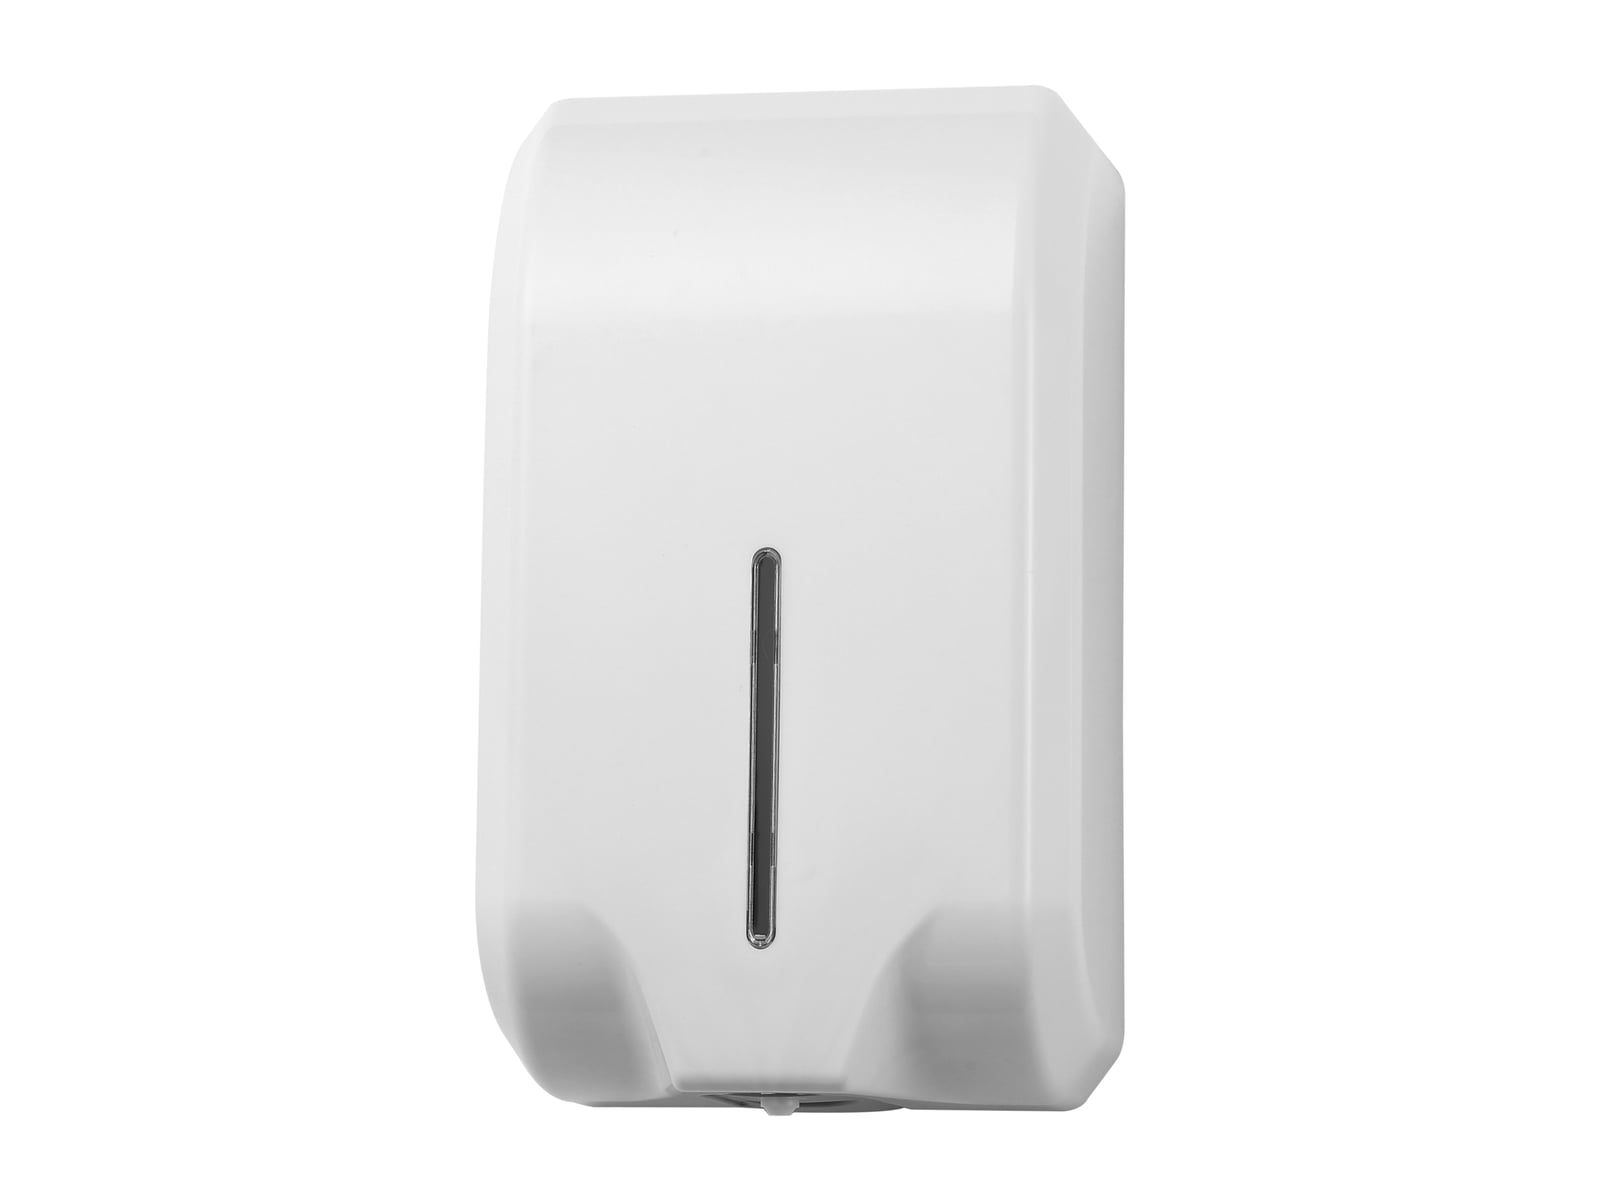
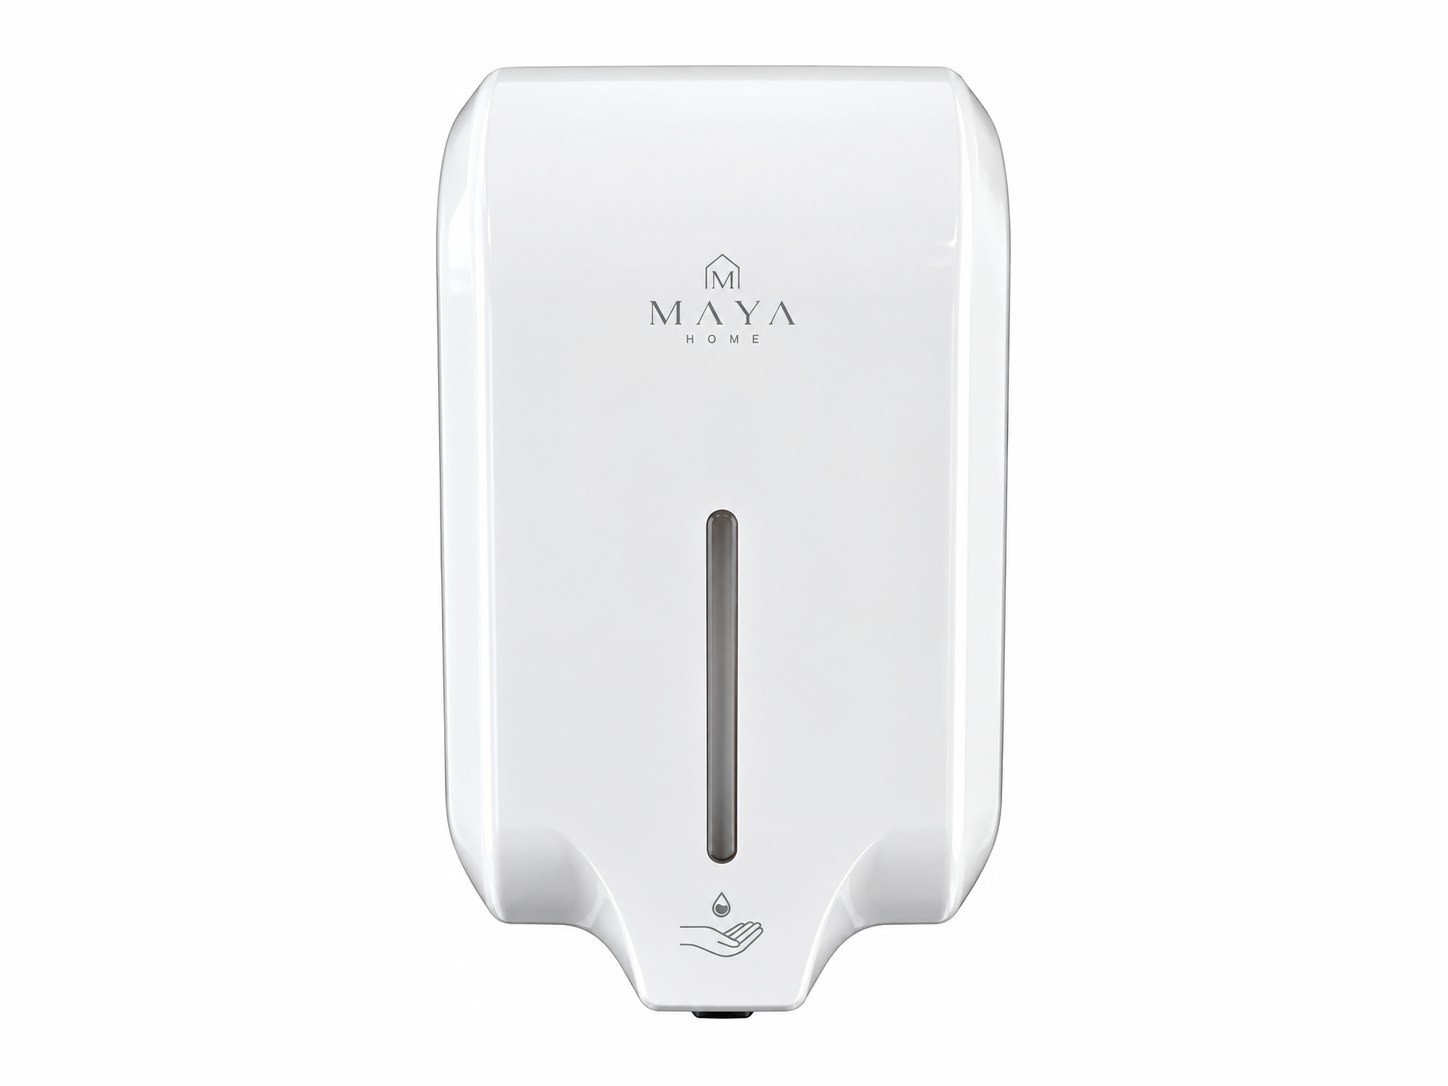
feat(fotos): reemplaza fotos principales de dispensadores, secadores y bambú

Changed region(s): [[0.2797, 0.0608, 0.7148, 0.942], [0.4351, 0.2431, 0.5594, 0.3039], [0.3108, 0.0912, 0.3419, 0.1215]]

diff --git a/src/data/products.ts b/src/data/products.ts
@@ -873,7 +873,7 @@ export const products: Product[] = [
   // ==========================================
   // CATEGORÍA: PISOS DE BAMBÚ (venta por m², ADR-35)
   // ==========================================
-  // Sin fotos todavía (images: [] usa el placeholder). Cajas de 1,37 m² (ERP: "(1.37M-4P)");
+  // Cajas de 1,37 m² (ERP: "(1.37M-4P)");
   // las 4 piezas por caja faltan confirmar: no se cargan.
   {
     id: "piso-bambu-natural",
@@ -881,7 +881,7 @@ export const products: Product[] = [
     category: "Pisos de bambú",
     description:
       "Piso de bambú 100 % natural de alta resistencia y durabilidad, con sistema clic para facilitar la instalación.",
-    images: [],
+    images: ["/images/products/piso-bambu-natural.jpg"],
     caracteristicas: [
       "100 % bambú",
       "Alta resistencia y durabilidad",
@@ -906,7 +906,7 @@ export const products: Product[] = [
     category: "Pisos de bambú",
     description:
       "Piso de bambú carbonized de alta resistencia y durabilidad, con sistema clic para facilitar la instalación.",
-    images: [],
+    images: ["/images/products/piso-bambu-carbonized.jpg"],
     caracteristicas: [
       "100 % bambú",
       "Alta resistencia y durabilidad",

diff --git a/docs/CHANGELOG.md b/docs/CHANGELOG.md
@@ -18,6 +18,9 @@ Formato de entrada:
 
 ---
 
+## 27/10/2026 - Fotos principales de dispensadores, secadores y bambú
+- Se reemplazan 6 fotos (4 dispensadores, 2 secadores) y se agregan las de los 2 pisos de bambú (1448 × 1086) en `public/images/products/`; `piso-bambu-*` pasan de `images: []` a su foto. Ids, precios, stock y lógica sin cambios.
+
 ## 27/10/2026 - Enlace "Ver carrito" en la ficha
 - `AddToCartButton` muestra un enlace "Ver carrito" a `/carrito` bajo el selector de cantidad (solo con el producto en el carrito), en una fila reservada para que el bloque no cambie de altura.
 

diff --git a/docs/ESTADO.md b/docs/ESTADO.md
@@ -25,7 +25,6 @@ Resumen vivo de dónde está el proyecto. No repite el detalle de
 ## Datos pendientes
 - LUMINA-1600: ¿son dos lavamanos o uno? En el ERP solo hay un SKU (60×40); sin confirmar.
 - "4 piezas por caja" del bambú: el ERP dice "(1.37M-4P)", pero no está confirmado.
-- Fotos de los 2 pisos de bambú: sin confirmar si ya hay fotos propias.
 - Fotos de los otros 5 combos al estilo de las de LUX-800 (hoy usan la foto de la familia).
 - Color de los muebles de LUX-800 frente a "WALNUT" del ERP: sin confirmar cuál es el correcto.
 - Título del sitio: pendiente de definir.
